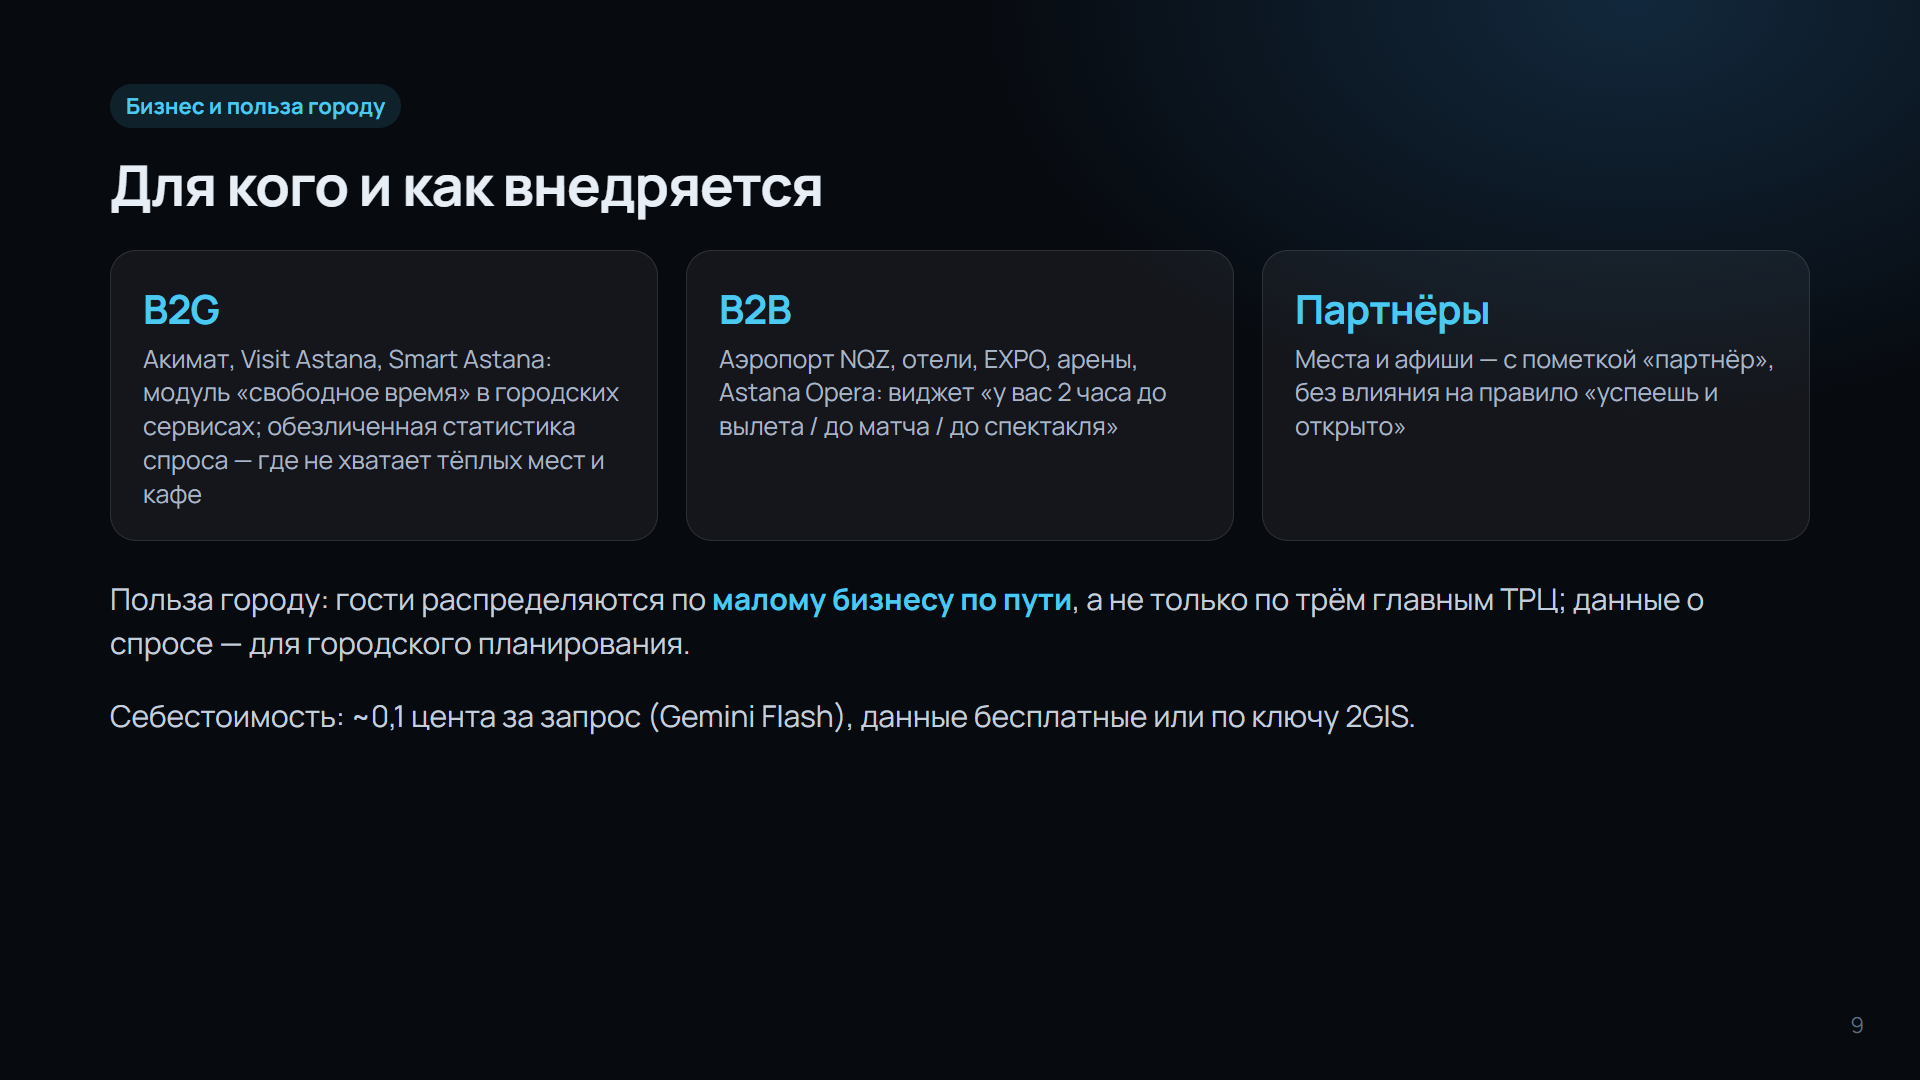
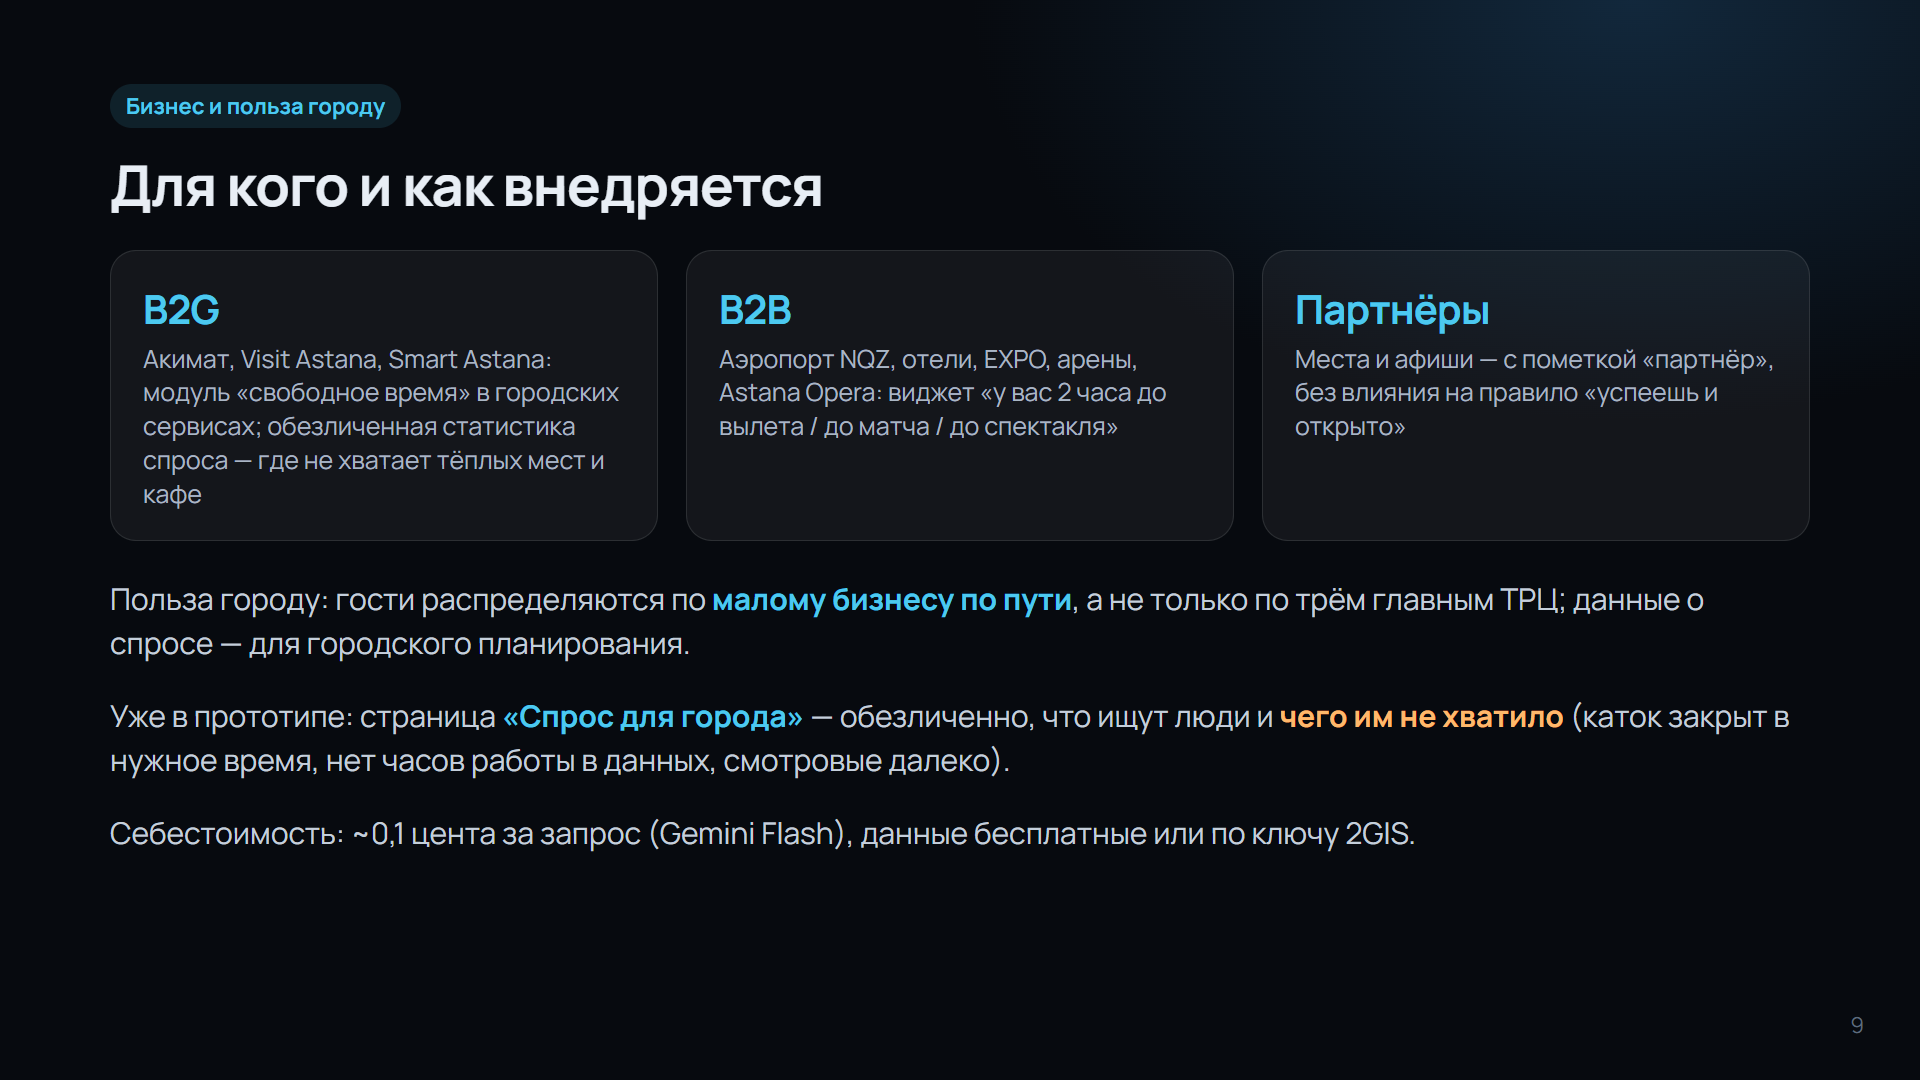
Place card: tapping a mall or landmark shows the building itself, not a cafe inside it

Changed region(s): [[0.0625, 0.6417, 0.9375, 0.7333], [0.0625, 0.7639, 0.75, 0.7944]]

diff --git a/app/main.py b/app/main.py
@@ -109,7 +109,8 @@ def where(lat: float, lon: float, lang: str = "ru"):
 
 @app.get("/api/place")
 def place(lat: float, lon: float, lang: str = "ru"):
-    """Карточка точки, куда ткнули на карте: адрес + ближайшее место из нашей базы (в пределах ~60 м)."""
+    """Карточка точки, куда ткнули на карте: адрес + ближайшее место из нашей базы (в пределах ~60 м).
+    Большие здания-ориентиры (Хан Шатыр, ТРЦ, арены) важнее кафе внутри них — если ткнули в такое здание, показываем его."""
     best, bd = None, 0.06
     for p in planner.POIS:
         if abs(p["lat"] - lat) > 0.001 or abs(p["lon"] - lon) > 0.0015:
@@ -117,6 +118,23 @@ def place(lat: float, lon: float, lang: str = "ru"):
         d = geo.haversine_km((lat, lon), (p["lat"], p["lon"]))
         if d < bd:
             best, bd = p, d
+    SMALL = ("кафе", "ресторан", "фастфуд", "бар", "детский центр", "развлечения", "кино", "книжный")
+    if best and best["category"] in SMALL:   # кафе внутри ТРЦ → сам ТРЦ, если он рядом (центр здания бывает в 100–150 м)
+        mall = min(((geo.haversine_km((lat, lon), (p["lat"], p["lon"])), p) for p in planner.POIS
+                    if p["category"] in ("торговый центр", "музей", "театр", "стадион")
+                    and abs(p["lat"] - lat) < 0.002 and abs(p["lon"] - lon) < 0.003), key=lambda x: x[0], default=(9, None))
+        if mall[1] and mall[0] < 0.15:
+            best, bd = mall[1], mall[0]
+    big = min(((geo.haversine_km((lat, lon), (l["lat"], l["lon"])), l) for l in geo.LANDMARKS), key=lambda x: x[0], default=(9, None))
+    if big[1] and big[0] < 0.12 and (not best or best["category"] in ("кафе", "ресторан", "фастфуд", "бар", "детский центр", "развлечения")):
+        lm = big[1]
+        twin = next((p for p in planner.POIS if geo.haversine_km((lm["lat"], lm["lon"]), (p["lat"], p["lon"])) < 0.3
+                     and (p["name"].lower() in {n.lower() for n in [lm["name"], *lm.get("aliases", [])]})), None)
+        best = twin or {"name": lm["name"], "name_en": lm.get("name_en"), "name_kk": lm.get("name_kk"), "category": "ориентир",
+                        "lat": lm["lat"], "lon": lm["lon"], "tags": {}}
+        if not best.get("name_en"):
+            best = {**best, "name_en": lm.get("name_en"), "name_kk": lm.get("name_kk")}
+        bd = big[0]
     poi = None
     if best:
         dg = best.get("dgis") or {}
